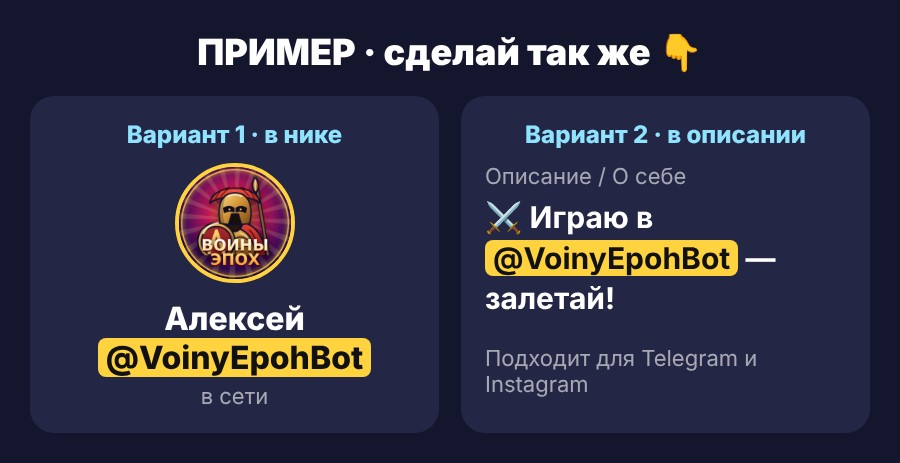
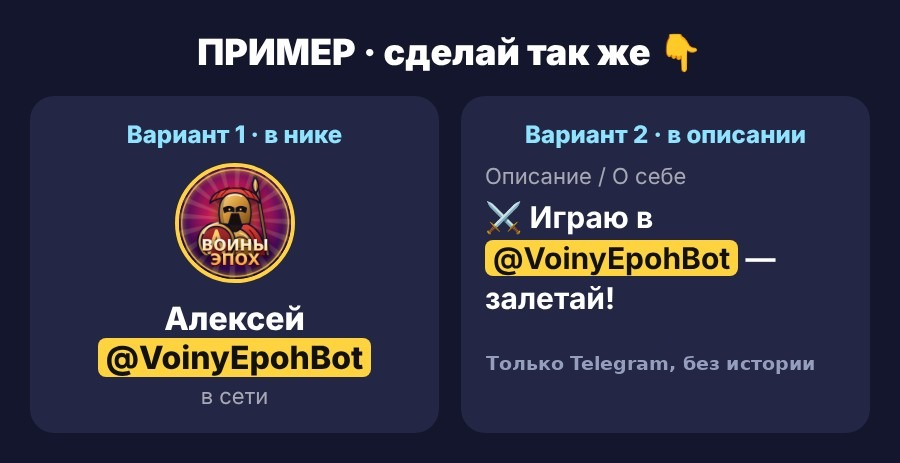
Конкурс: аккуратные шаги, пример ника/«О себе», кнопка копирования @VoinyEpohBot; пример без Instagram
Claude-Session: https://claude.ai/code/session_01WBNLLAZ4HxPKvodtiyTWHg

Changed region(s): [[0.5289, 0.7559, 0.9022, 0.8467]]

diff --git a/wow.js b/wow.js
@@ -882,7 +882,10 @@ function drawStory2(C,hm,dd){const box=$("chal"),joined=!!C.me,today=dd(C.end)==
   $("chal-t").textContent=C.phase==="soon"?"С "+dd(C.start)+" "+hm(C.start)+": разыгрываем 3 приза!":C.phase==="on"&&C.nb?(today?"⏰ Последний день! ":"")+"Впиши @VoinyEpohBot в свой ник или в «О себе» в Telegram и нажми «Я участвую» — до "+dd(C.end)+" "+hm(C.end)+". Победителей выберем случайно.":C.phase==="on"?(today?"⏰ Последний день! ":"")+"Выложи историю с нашим фото и впиши @VoinyEpohBot в ник или описание — до "+dd(C.end)+" "+hm(C.end)+". Победителей выберем случайно.":C.phase==="wait"?(C.nb?"Приём закрыт. Не убирай @VoinyEpohBot из ника или «О себе» до итогов!":"Приём закрыт. Не удаляй историю и @VoinyEpohBot до итогов!"):"Итоги подведены!";
   $("chal-p").innerHTML=C.prizes.map((p,k)=>{const m=p.match(/^(\S+)\s(.+?)\s\((.+)\)$/)||[0,"🎁",p,""];return '<div>'+["🥇","🥈","🥉"][k]+'<b>'+m[1]+' '+esc(m[2])+'</b>'+esc(m[3])+'</div>'}).join("");
   const me=$("chal-me");
-  if(C.nb&&(C.phase==="on"||C.phase==="soon"))me.innerHTML='<div class="sty"><div class="sty-s"><b>1</b><span>Впиши <b>@VoinyEpohBot</b> в свой <b>ник</b> или в <b>«О себе»</b> в Telegram (Настройки → Изменить профиль)</span></div>'+
+  if(C.nb&&(C.phase==="on"||C.phase==="soon"))me.innerHTML='<div class="sty"><div class="sty-s"><b>1</b><span>Впиши <em class="sty-k">@VoinyEpohBot</em> в свой ник или в «О себе» в Telegram</span></div>'+
+     '<p class="sty-h">Telegram → Настройки → Изменить профиль</p>'+
+     '<div class="sty-b"><button type="button" class="mini2" id="st-cpb">📋 Скопировать @VoinyEpohBot</button></div>'+
+     (C.ex?'<img class="sty-ex" src="'+C.ex+'" alt="Пример: @VoinyEpohBot в нике или в «О себе»">':'')+
      '<div class="sty-s"><b>2</b><span>'+(joined?"✅ Ты участвуешь! Не убирай @VoinyEpohBot до итогов":"Нажми «Я участвую» и укажи свой ник в Telegram — по нему проверим")+'</span></div>'+
      (joined?'<p class="sty-ok">Telegram: @'+esc(C.me.tg||"")+' · <a href="#" id="st-edit">изменить</a></p>':"")+
      '<div class="sty-f"'+(joined?' hidden':'')+'><input id="st-tg" placeholder="Твой ник в Telegram (@username)" maxlength="40"><button type="button" class="craftbtn" id="st-join"'+(C.phase==="soon"?" disabled":"")+'>'+(C.phase==="soon"?"Можно с "+hm(C.start):"✅ Я участвую")+'</button></div></div>';
@@ -899,6 +902,7 @@ function drawStory2(C,hm,dd){const box=$("chal"),joined=!!C.me,today=dd(C.end)==
   $("chal-go").hidden=true;
   $("chal-rules").textContent=C.nb?"До "+dd(C.end)+" "+hm(C.end)+": впиши @VoinyEpohBot в свой ник или в «О себе» в Telegram и нажми «Я участвую». Историю выкладывать не нужно, Instagram не нужен. Не убирай @VoinyEpohBot до итогов. Итоги "+dd(C.resAt)+" в "+hm(C.resAt)+": бот выбирает 3 победителей случайно, администратор проверяет профиль — если @VoinyEpohBot нет, приз уходит запасному.":"С "+dd(C.start)+" "+hm(C.start)+" до "+dd(C.end)+" "+hm(C.end)+": выложи в историю Telegram или Instagram фото конкурса из игры со ссылкой на бота, впиши @VoinyEpohBot в ник или описание профиля и нажми «Я выложил». Историю не удаляй 24 часа, @VoinyEpohBot не убирай до итогов. Итоги "+dd(C.resAt)+" в "+hm(C.resAt)+": бот выбирает 3 победителей случайно, администратор проверяет условия (скрин из архива историй с датой) — если условие не выполнено, приз уходит запасному. Призы: 🥇 Мифический сундук, 🥈 Легендарный сундук, 🥉 Королевский сундук — открываются сразу в игре. Профиль в Instagram должен быть открытым, а история в Telegram — видна всем.";
   const L=$("st-link");if(L)L.textContent=C.link;const url=stPageUrl()+C.img;
+  if($("st-cpb"))$("st-cpb").onclick=()=>{try{navigator.clipboard.writeText("@VoinyEpohBot");toast("Скопировано: @VoinyEpohBot")}catch(e){toast("@VoinyEpohBot")}};
   if($("st-cp"))$("st-cp").onclick=()=>{try{navigator.clipboard.writeText(C.link);toast("Ссылка скопирована — вставь её в стикер «Ссылка»")}catch(e){toast(C.link)}};
   if($("st-cp2"))$("st-cp2").onclick=()=>{try{navigator.clipboard.writeText("@VoinyEpohBot");toast("Скопировано — вставь в ник или описание")}catch(e){toast("@VoinyEpohBot")}};
   if($("st-dl"))$("st-dl").onclick=()=>{try{if(tg&&tg.downloadFile){tg.downloadFile({url,file_name:"voiny-epoh-konkurs.jpg"});return}}catch(e){}try{tg&&tg.openLink?tg.openLink(url):open(url)}catch(e){open(url)}};

diff --git a/index.html b/index.html
@@ -1,13 +1,13 @@
 <!doctype html>
 <html lang="ru">
-<head><meta name="app-ver" content="59f3a25f0c">
+<head><meta name="app-ver" content="c2b7762ef9">
 <meta charset="utf-8">
 <meta http-equiv="Cache-Control" content="no-cache">
 <meta name="viewport" content="width=device-width,initial-scale=1,maximum-scale=1,user-scalable=no,viewport-fit=cover">
 <title>Воины Эпох</title>
 <script src="https://telegram.org/js/telegram-web-app.js"></script>
 <link rel="stylesheet" href="https://fonts.googleapis.com/css2?family=Rubik+Mono+One&family=Rubik:wght@400;500;700;900&display=swap">
-<link rel="stylesheet" href="style.css?v=14a7c69f">
+<link rel="stylesheet" href="style.css?v=31b32dcf">
 </head>
 <body>
 <div id="boot" style="position:fixed;inset:0;z-index:100000;display:flex;flex-direction:column;align-items:center;justify-content:center;gap:14px;background:radial-gradient(circle at 50% 35%,#3a5cff,#1d44c8 45%,#0b1a5a 100%);color:#fff;font-family:Rubik,system-ui,sans-serif;transition:opacity .45s,transform .45s">
@@ -365,7 +365,7 @@
 <div class="modal" id="modal" hidden><div class="sheet" id="msheet"></div></div>
 <script src="rules.js?v=36788209"></script>
 <script src="game.js?v=131147d9"></script>
-<script src="wow.js?v=eaa3b576"></script>
+<script src="wow.js?v=f5011b41"></script>
 <script src="menu.js?v=2f648572"></script>
 <script src="dragon.js?v=07720efa"></script>
 <script src="teach.js?v=33c2d2dd"></script>

diff --git a/style.css b/style.css
@@ -3706,3 +3706,4 @@ section[id^="sec-"]:not([hidden]){animation:secin .2s ease-out}@keyframes secin{
 .payhelp{display:flex;align-items:center;gap:10px;margin:0 0 12px;padding:10px 12px;border-radius:14px;background:linear-gradient(135deg,#123a5a,#0c2038);border:1.5px solid #4ab0ff}
 .ph-i{font-size:26px}.ph-t{flex:1;display:flex;flex-direction:column;gap:2px;font-size:13px;color:#fff}.ph-t span{font-size:12px;color:#b8d8f0;line-height:1.3}
 .ph-b{flex:none;padding:9px 12px;border:0;border-radius:11px;background:#4ab0ff;color:#04203a;font-weight:800;font-size:13px}
+.sty-k{font-style:normal;background:#ffd23f;color:#1a1033;border-radius:7px;padding:1px 6px;white-space:nowrap}.sty-h{margin:-2px 0 2px 32px;font-size:12px;opacity:.75;font-weight:700}
